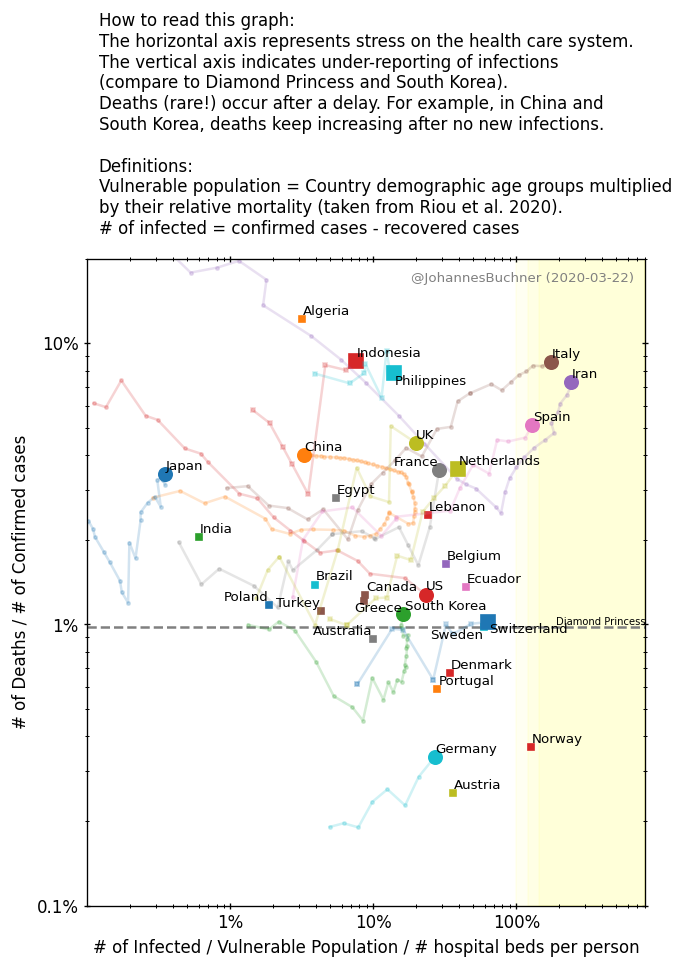
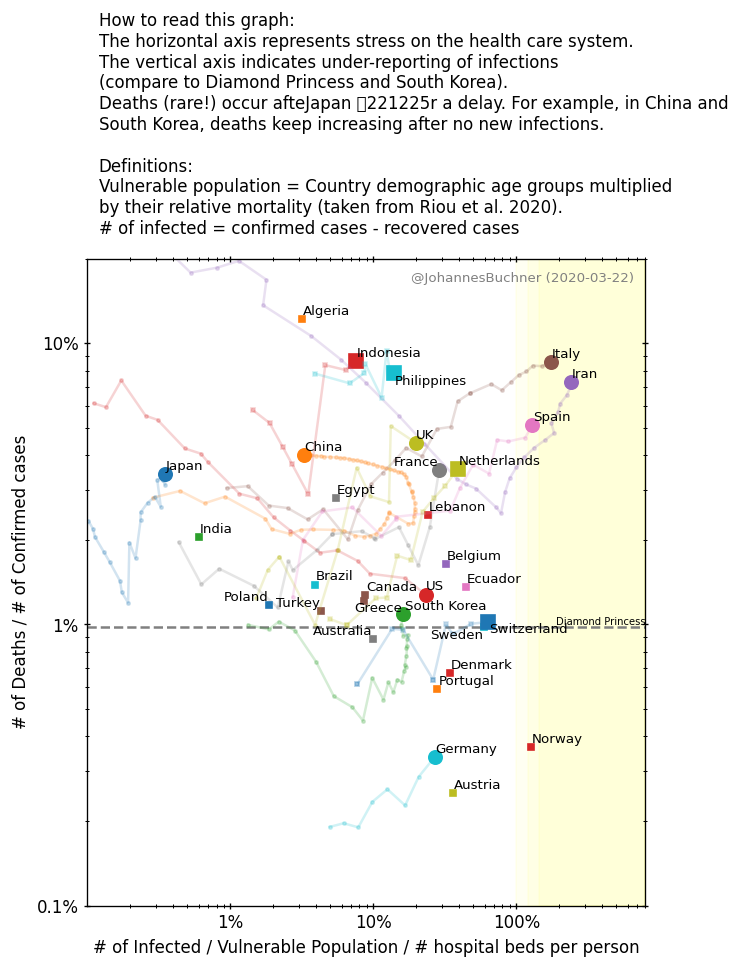
doc & clean-up code a little

diff --git a/ratio.py b/ratio.py
@@ -124,16 +124,22 @@ for (i, row1), (_, row2), (_, row3) in zip(d1.iterrows(), d2.iterrows(), d3.iter
 	
 	year = pandas.to_numeric(pop_country.Year)
 	country_recent = pop_country[year == year.max()]
+	# total number of people in each age group
 	num_people = [country_recent[country_recent.Age.isin(ages)].Value.sum()
 		for ages in agegroups]
+	# corrected for vulnerability
 	vulnerable_number = np.array(num_people) * agegroups_mortality
+	# number of hospital beds available in the country
+	beds_total = beds_recent * sum(num_people)
+	# corrected for vulnerability of the population
+	capacity = beds_total * sum(vulnerable_number) / sum(num_people)
 	
 	print("%20s %6d %6d %14d %.2f%%" % (country, beds_recent, max(timeseries_dead), 
 		sum(num_people), sum(vulnerable_number) * 100 / sum(num_people)))
 	#print("%20s %9d" % (country, beds_recent * sum(vulnerable_number)))
 	#capacities.append("| %20s | %9d |" % (country, beds_recent * sum(vulnerable_number)))
 	if beds_recent > 0 and sum(vulnerable_number) > 100000:
-		capacities.append(((timeseries_reported - timeseries_recovered)[-1] / (beds_recent * sum(vulnerable_number)), country_brief, beds_recent * sum(vulnerable_number)))
+		capacities.append(((timeseries_reported - timeseries_recovered)[-1] / capacity, country_brief, capacity))
 	
 	if country_brief in marked_countries_colors:
 		color = marked_countries_colors[country_brief]
@@ -174,7 +180,7 @@ for (i, row1), (_, row2), (_, row3) in zip(d1.iterrows(), d2.iterrows(), d3.iter
 		ax.text(timeseries_cases[-1] / vulnerable_number.sum(), 1e-3,
 			'  ' + country_brief, va='bottom', ha='center', size=6, rotation=90)
 
-	x = timeseries_cases[mask] / vulnerable_number.sum() / beds_recent
+	x = timeseries_cases[mask] / capacity
 	y = timeseries_dead[mask] / timeseries_reported[mask]
 	if mask.any():
 		l, = bx.plot(x[-1], y[-1], marker, ms=size, color=color)
@@ -183,9 +189,9 @@ for (i, row1), (_, row2), (_, row3) in zip(d1.iterrows(), d2.iterrows(), d3.iter
 			bx.plot(x, y, marker, ms=2, label=country_brief, alpha=0.2, color=l.get_color())
 	
 	else:
-		bx.plot(timeseries_cases[-1] / vulnerable_number.sum() / beds_recent, 1e-3,
+		bx.plot(timeseries_cases[-1] / capacity, 1e-3,
 			marker, color=color, ms=2)
-		bx.text(timeseries_cases[-1] / vulnerable_number.sum() / beds_recent, 1e-3,
+		bx.text(timeseries_cases[-1] / capacity, 1e-3,
 			'  ' + country_brief, va='bottom', ha='center', size=6, rotation=90)
 
 with open("capacities.rst", 'w') as f:
@@ -285,7 +291,7 @@ bx.text(0.02, 1.0, """How to read this graph:
 The horizontal axis represents stress on the health care system.
 The vertical axis indicates under-reporting of infections
 (compare to Diamond Princess and South Korea).
-Deaths (rare!) occur after a delay. For example, in China and 
+Deaths (rare!) occur afteJapan 	221225r a delay. For example, in China and 
 South Korea, deaths keep increasing after no new infections.
 
 Definitions:

diff --git a/capacities.rst b/capacities.rst
@@ -9,7 +9,14 @@ available hospital beds per person.
 Data comes from UN data compilations (age demographics and hospital bed data). 
 The number of vulnerable people is computed based on published mortality factors for age groups (Riou+2020).
 
+How to read this
+-----------------
+
 To compare with the current status, subtract the number infected by the number recovered.
+This gives you information of how stressed the health system is.
+
+(From doubling times, you can also extrapolate in how many days
+the health system will become insufficient).
 
 Top stressed countries
 -----------------------
